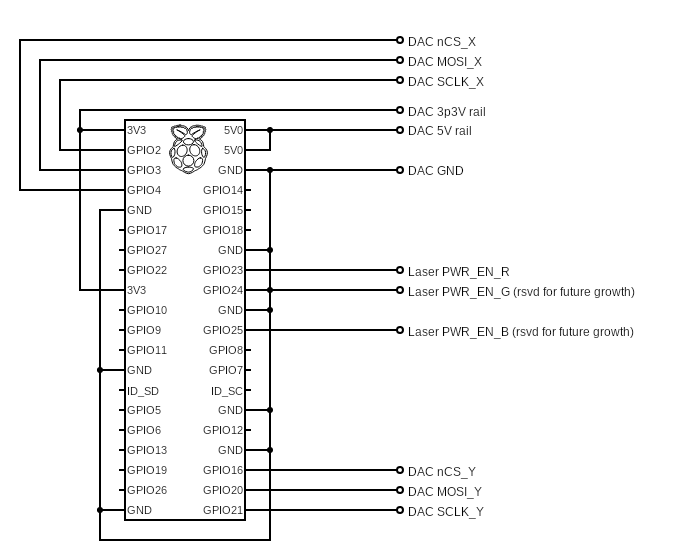
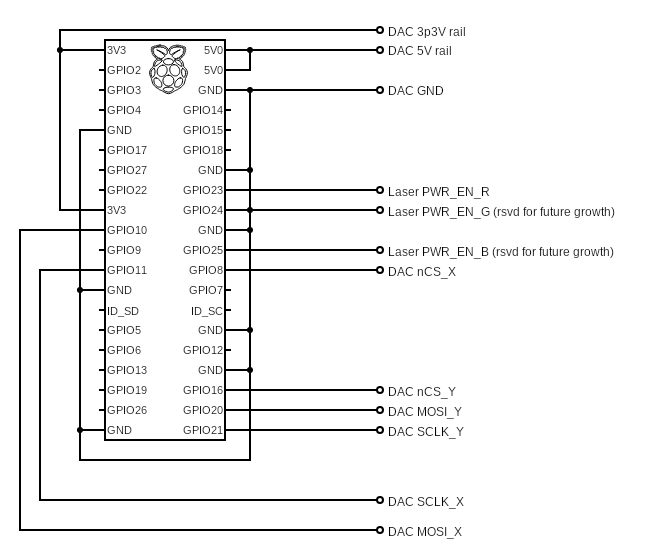
eep522a report and documentation updates based on circuit updates and DAC information

Changed region(s): [[0.0303, 0.0304, 0.9394, 0.9714]]

diff --git a/eep522a_embedded_and_real-time_systems/submissions/final_project/report/final_project_report_eantunano.tex b/eep522a_embedded_and_real-time_systems/submissions/final_project/report/final_project_report_eantunano.tex
@@ -21,6 +21,57 @@
     \section{Introduction}
 
     \section{Methods}
+    \subsection {Coding Standard}
+    This project will use the LLVM Coding Standards. 
+    For my decision, I pulled three coding standards: Google C++ Style Guide, LLVM Coding Standards, and Motor Industry Software Reliability Association (MISRA) C/C++.
+    MISRA C/C++ will not be used for this projects because it is a purchased standard.
+    MISRA's focus is on safety-critical applications, which I think is not applicable for my project.
+    Even if my project were safety-critical, there is so little time to develop a working prototype that I care more about readability and consistency than safety-critical applications.
+    For a mass-product, which I'll classify as 10,000+ units annually, or human-rated vehicle, then it would make sense to implement a safety-critical coding standard after the prototype phase.
+    In my opinion, an engineering development unit would be a good candidate to implement this coding standard.
+
+    I have decided to use the Google C++ Style Guide because it has a better website than the LLVM Coding Standards website.
+    The coding standard only applies to new code that I have written for this project.
+    It does not apply to source code added to my project from other github repositories.
+    Source code will maintain whatever coding standard that it was written with and be used "as-is".
+    Easier is entirely subjective. For myself, it is easier to read, navigate, and less verbose.
+    The style guide is used for Google open-sourced projects, so it's widely used.
+    My focus is on writing prototype code, so I don't want to sit down and read through LLVM Coding Standards right now.
+    There may be more merit to the LLVM Coding Standards, but that decision may have to be for another day.
+
+    Click {\href{https://google.github.io/styleguide/cppguide.html}{here}} to be taken to the Google C++ Style Guide.
+
+    \subsection{Interfaces}
+    The laser controller requires the following physical interfaces:
+    \begin{itemize}
+        \item GPIO pin
+        \item SPI pins
+        \item Power Pins
+    \end{itemize}
+
+    For this project, Raspian's \emph{spidev} Linux utility was used to setup and drive the SPI interfaces from the Raspberry Pi 4. 
+    The Linux utility it limited to only two SPI interfaces, which was sufficient for this project.
+    Two SPI interfaces are required by this project to drive the two galvo motors.
+    One interface will drive the X-axis mirrors while the other will drive the Y-axis mirrors.
+    
+    Refer to the code below for checking if your system has the \emph{spidev} utility.
+
+    \begin{lstlisting}[frame=single, basicstyle=\ttfamily\footnotesize, breaklines=true]
+        ls -la /dev/
+    \end{lstlisting}
+
+    Search for a folder named \emph{spidev}.
+    There may be numbers as part of the folder name and that's okay.
+    Follow the instructions below if the \emph{spidev} folder does not exist.
+    If not, read the screenshot below to install the \emph{spidev} library.
+
+    \includegraphics[width=2.5in]{enable_spi_on_rpi4.png}
+
+    Now search for the library again because you should see the following two folders after reboot.
+
+    \includegraphics[width=2.5in]{spi4_installed_after_reboot.png}
+
+    The laser controller requires the following digital interfaces:
 
     \section{Results}
 
@@ -76,6 +127,14 @@
         \item XY Galvo-motors and motor driver boards
         \item Arduino with a Raspberry Pi 4
     \end{itemize} 
+
+    The biggest pain was the substitute of the Dual-channel DAC for the two single-channel DACs. 
+    The DACs are not as well in-sync as a single chip dual-channel DAC.
+    The \emph{ABElectronic} code that I pulled was written for the dual-channel DACs, so the driver code had to be modified to drive the two DACs separately.
+    Due to the timetable of this project, I dropped the more elegant single SPI interface solution, which would've used the chip-selects to communicate with DAC-X and DAC-Y separately.
+    Implementation of the single SPI interface may not be difficult, but I was not sure how time-multiplexing the SPI bus would work.
+    With most of the pins still free and a whole second set of Linux utility controlled SPI interface pins, I went with using both SPI interface resources.
+    From an implementation standpoint, this is easier since I can drive both buses simultaneously without having to deal with a time-multiplexing solution that would still allow the X and Y mirrors to move in-sync.
      
 
     \section{Conclusion}
